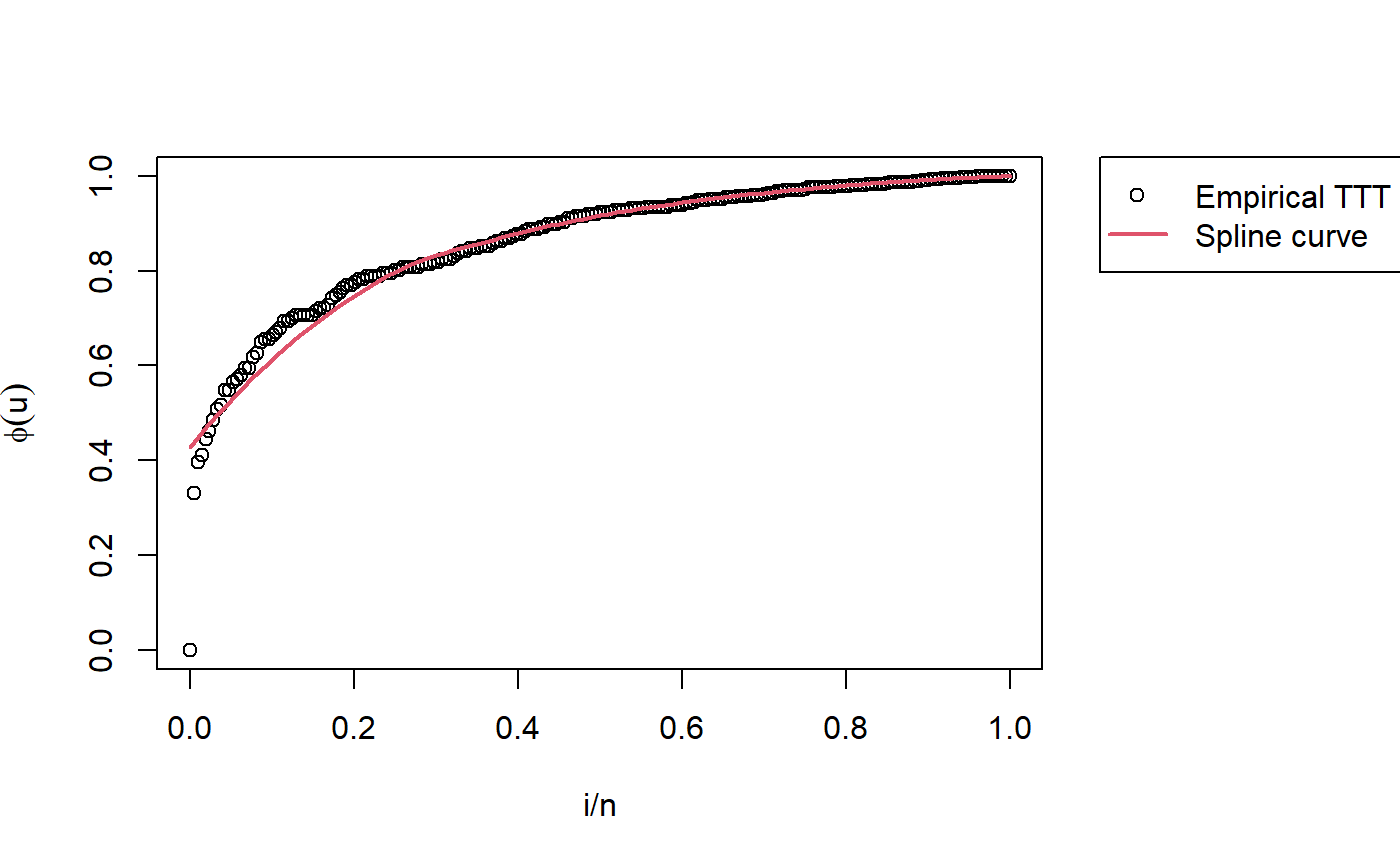
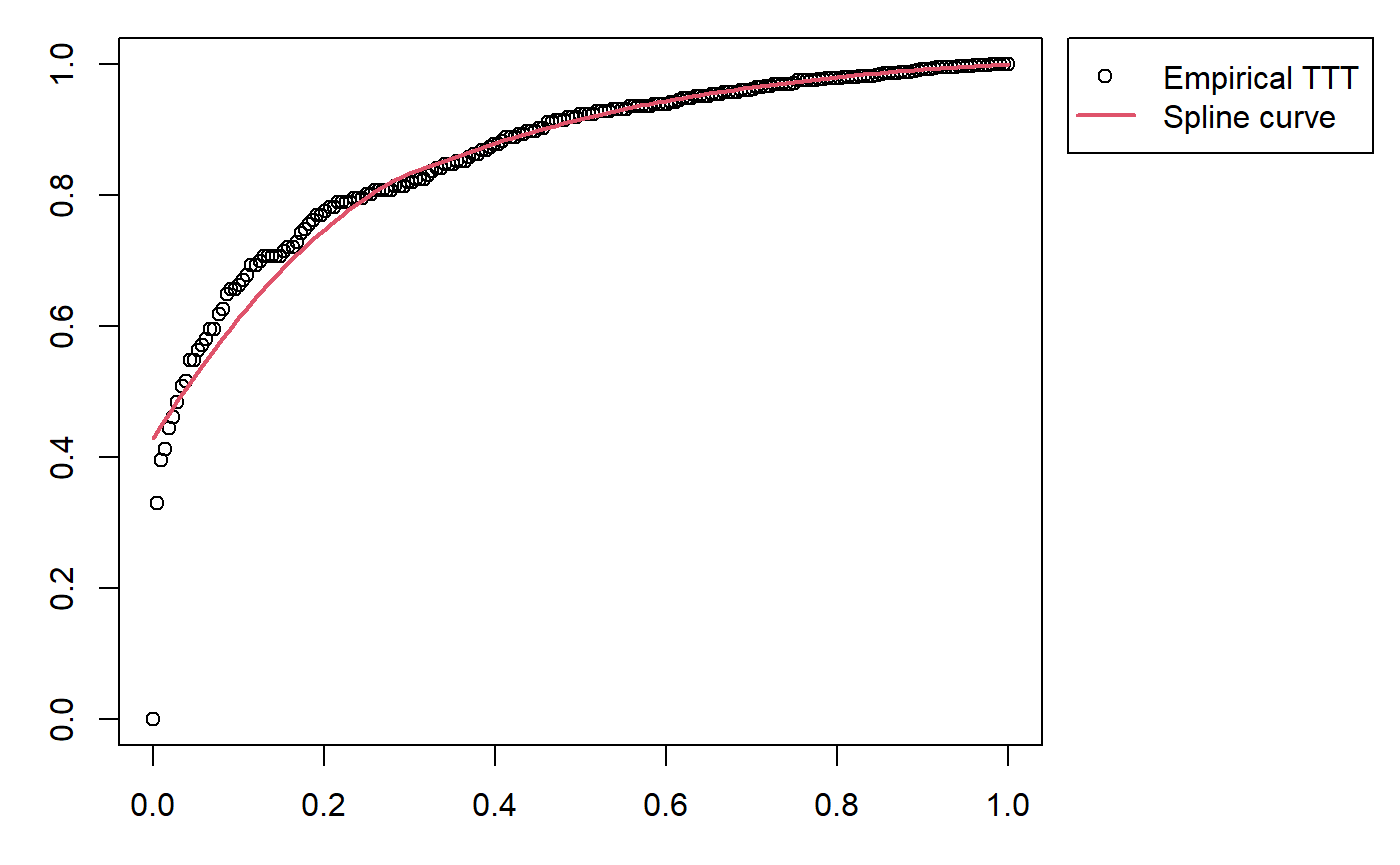
Updated automatically.

diff --git a/docs/reference/plot.initValOW.html b/docs/reference/plot.initValOW.html
@@ -148,7 +148,8 @@ family.</p>
   <span class='kw'>lwd</span> <span class='kw'>=</span> <span class='fl'>NA</span>,
   <span class='kw'>main</span> <span class='kw'>=</span> <span class='st'>""</span>,
   <span class='kw'>curve_options</span> <span class='kw'>=</span> <span class='fu'><a href='https://rdrr.io/r/base/list.html'>list</a></span>(<span class='kw'>col</span> <span class='kw'>=</span> <span class='fl'>2</span>, <span class='kw'>lwd</span> <span class='kw'>=</span> <span class='fl'>2</span>, <span class='kw'>lty</span> <span class='kw'>=</span> <span class='fl'>1</span>),
-  <span class='kw'>legend_options</span> <span class='kw'>=</span> <span class='fu'><a href='https://rdrr.io/r/base/list.html'>list</a></span>(<span class='kw'>pos</span> <span class='kw'>=</span> <span class='st'>"top"</span>),
+  <span class='kw'>par_plot</span> <span class='kw'>=</span> <span class='fu'><a href='https://rdrr.io/r/base/list.html'>list</a></span>(<span class='kw'>mar</span> <span class='kw'>=</span> <span class='fu'><a href='https://rdrr.io/r/base/c.html'>c</a></span>(<span class='fl'>5.1</span>, <span class='fl'>4.1</span>, <span class='fl'>4.1</span>, <span class='fl'>2.1</span>)),
+  <span class='kw'>legend_options</span> <span class='kw'>=</span> <span class='kw'>NULL</span>,
   <span class='no'>...</span>
 )</pre>
 
@@ -187,7 +188,7 @@ the usual color argument of <code><a href='https://rdrr.io/r/graphics/plot.defau
     </tr>
     <tr>
       <th>main</th>
-      <td><p>a main title for the plot,</p></td>
+      <td><p>a main title for the plot.</p></td>
     </tr>
     <tr>
       <th>curve_options</th>
@@ -195,9 +196,15 @@ the usual color argument of <code><a href='https://rdrr.io/r/graphics/plot.defau
 of non-parametric estimate plot.</p></td>
     </tr>
     <tr>
+      <th>par_plot</th>
+      <td><p>some graphical parameters which can be passed to the plot. See 
+<strong>Details</strong> section for futher information.</p></td>
+    </tr>
+    <tr>
       <th>legend_options</th>
-      <td><p>a list with fur further arguments useful for customization
-of the legend of the plot.</p></td>
+      <td><p>a list with fur further arguments useful for customization. See 
+<strong>Details</strong> section for futher information.
+                     of the legend of the plot.</p></td>
     </tr>
     <tr>
       <th>...</th>
@@ -210,6 +217,36 @@ of the legend of the plot.</p></td>
     <p>This plot complements the use of <code><a href='initValuesOW_TTT.html'>initValuesOW_TTT</a></code>. It is always 
 advisable to use this function in order to check the result of non-parametric estimate 
 of TTT plot. See the first example in <strong>Examples</strong> section for an illustration.</p>
+<p><code>par_plot</code> admits some parameters of <code><a href='https://rdrr.io/r/graphics/par.html'>par</a></code> function. 
+The following <em>has preestablished values</em>:</p><ul>
+<li><p><code>mai</code>:the margins can be manipulated with <code>mar</code>. The right margin
+has a value equals to 7.2 using <code>mar</code> and all new values take it as reference value.</p></li>
+<li><p><code>xpd</code>:Is set as <code>TRUE</code>, and cannot be modified.</p></li>
+</ul> 
+
+<p>On the other hand, <code>legend_options</code> allows manuy of the parameters of 
+<code><a href='https://rdrr.io/r/graphics/legend.html'>legend</a></code> function. The following <em>has preestablished values</em>:</p><ul>
+<li><p><code>x, y</code>:legend is always located on the right side, outside the plot.
+<code>x</code> and <code>y</code> coordinates cannot be manipulated, instead of this, it exists 
+the argument <code>pos</code>, which can take character or numeric values. In the first case,
+it can be <code>"top", "center"</code> and <code>"bottom"</code>, in the later, it can be any value
+of the y-coordinate, between 0 and 1.</p></li>
+<li><p><code>legend</code>:text of the legend cannot be edited.</p></li>
+<li><p><code>pch</code>:cannot be manipulated, it depends on <code>pch</code> parameter of the plot.</p></li>
+<li><p><code>col</code>:cannot be manipulated, it depends on <code>col</code> parameters of the plot
+and the curve_options.
+#'</p></li>
+<li><p><code>lty</code>:cannot be manipulated, it depends on <code>lty</code> parameters of the plot
+and the curve_options.
+#'</p></li>
+<li><p><code>lwd</code>:cannot be manipulated, it depends on <code>lwd</code> parameters of the plot
+and the curve_options.
+#'</p></li>
+<li><p><code>pt.cex</code>:cannot be manipulated, it depends on <code>cex</code> parameter of 
+the plot.</p></li>
+<li><p><code>xpd</code>:It is set as <code>TRUE</code>, and cannot be modified.</p></li>
+</ul> 
+
 <p>The possible arguments for <code>...</code> can be consulted in 
 <code><a href='https://rdrr.io/r/graphics/plot.default.html'>plot.default</a></code>  and <code><a href='https://rdrr.io/r/graphics/par.html'>par</a></code>.</p>
 

diff --git a/docs/articles/OW_distribution.html b/docs/articles/OW_distribution.html
@@ -85,7 +85,7 @@
       <h1 data-toc-skip>OW distribution</h1>
                         <h4 class="author">Jaime Mosquera</h4>
             
-            <h4 class="date">2020-08-03</h4>
+            <h4 class="date">2020-08-05</h4>
       
       <small class="dont-index">Source: <a href="https://github.com/ousuga/RelDists/blob/master/vignettes/OW_distribution.Rmd"><code>vignettes/OW_distribution.Rmd</code></a></small>
       <div class="hidden name"><code>OW_distribution.Rmd</code></div>
@@ -143,7 +143,9 @@
 <span class="co">#&gt; --------------------------------------------------------------------</span>
 <span class="co">#&gt; Hazard shape: Bathtub</span></pre></body></html></div>
 <p><code><a href="../reference/initValuesOW_TTT.html">initValuesOW_TTT()</a></code> function detected the Bathtub hazard shape, which corresponds to a convex-then-concave shape of total time on test (TTT) plot</p>
-<div class="sourceCode" id="cb3"><html><body><pre class="r">  <span class="fu"><a href="https://rdrr.io/r/base/plot.html">plot</a></span>(<span class="no">my_initial_guess</span>)</pre></body></html></div>
+<div class="sourceCode" id="cb3"><html><body><pre class="r">  <span class="fu"><a href="https://rdrr.io/r/base/plot.html">plot</a></span>(<span class="no">my_initial_guess</span>,
+       <span class="kw">legend_options</span><span class="kw">=</span><span class="fu"><a href="https://rdrr.io/r/base/list.html">list</a></span>(<span class="kw">pos</span><span class="kw">=</span><span class="fl">1.04</span>),
+       <span class="kw">par_plot</span><span class="kw">=</span><span class="fu"><a href="https://rdrr.io/r/base/list.html">list</a></span>(<span class="kw">mar</span><span class="kw">=</span><span class="fu"><a href="https://rdrr.io/r/base/c.html">c</a></span>(<span class="fl">3.1</span>,<span class="fl">3.1</span>,<span class="fl">1</span>,<span class="fl">2.1</span>)))</pre></body></html></div>
 <p><img src="OW_distribution_files/figure-html/unnamed-chunk-5-1.png" width="700"></p>
 <p>Therefore, we define the search region according to <code><a href="../reference/initValuesOW_TTT.html">initValuesOW_TTT()</a></code> outputs</p>
 <div class="sourceCode" id="cb4"><html><body><pre class="r"><span class="co"># Custom search region</span>
@@ -250,7 +252,9 @@
 <span class="co">#&gt; --------------------------------------------------------------------</span>
 <span class="co">#&gt; Hazard shape: Increasing</span></pre></body></html></div>
 <p>With <code><a href="../reference/initValuesOW_TTT.html">initValuesOW_TTT()</a></code> function we identified an increasing hazard shape, as well as was stated by Cooray <span class="citation">(2006)</span>, because TTT plot is concave.</p>
-<div class="sourceCode" id="cb7"><html><body><pre class="r"><span class="fu"><a href="https://rdrr.io/r/base/plot.html">plot</a></span>(<span class="no">init_vals</span>)</pre></body></html></div>
+<div class="sourceCode" id="cb7"><html><body><pre class="r"><span class="fu"><a href="https://rdrr.io/r/base/plot.html">plot</a></span>(<span class="no">init_vals</span>,
+     <span class="kw">legend_options</span><span class="kw">=</span><span class="fu"><a href="https://rdrr.io/r/base/list.html">list</a></span>(<span class="kw">pos</span><span class="kw">=</span><span class="fl">1.04</span>),
+     <span class="kw">par_plot</span><span class="kw">=</span><span class="fu"><a href="https://rdrr.io/r/base/list.html">list</a></span>(<span class="kw">mar</span><span class="kw">=</span><span class="fu"><a href="https://rdrr.io/r/base/c.html">c</a></span>(<span class="fl">3.1</span>,<span class="fl">3.1</span>,<span class="fl">1</span>,<span class="fl">2.1</span>)))</pre></body></html></div>
 <p><img src="OW_distribution_files/figure-html/unnamed-chunk-10-1.png" width="700"></p>
 <p>Hence, we implement the estimation procedure</p>
 <div class="sourceCode" id="cb8"><html><body><pre class="r"><span class="co"># Custom search region</span>

diff --git a/docs/articles/FWE_distribution.html b/docs/articles/FWE_distribution.html
@@ -85,7 +85,7 @@
       <h1 data-toc-skip>FWE distribution</h1>
                         <h4 class="author">Freddy Hernandez</h4>
             
-            <h4 class="date">2020-08-03</h4>
+            <h4 class="date">2020-08-05</h4>
       
       <small class="dont-index">Source: <a href="https://github.com/ousuga/RelDists/blob/master/vignettes/FWE_distribution.Rmd"><code>vignettes/FWE_distribution.Rmd</code></a></small>
       <div class="hidden name"><code>FWE_distribution.Rmd</code></div>
